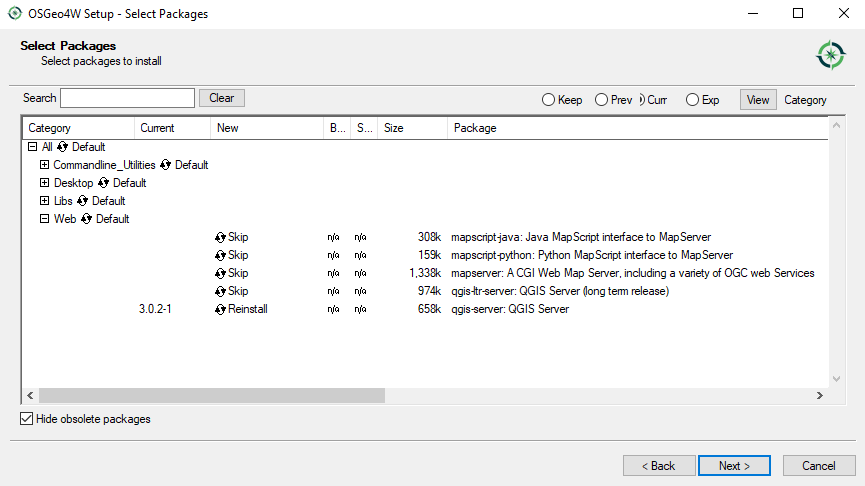
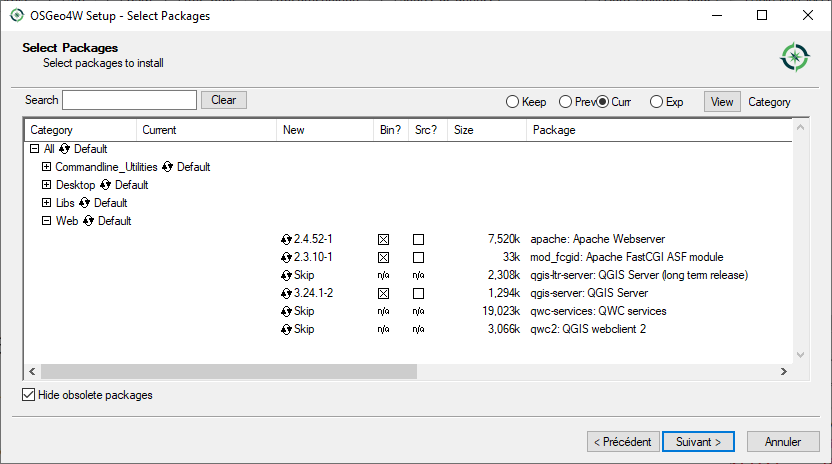
Update instructions to install QGIS Server on windows

diff --git a/docs/server_manual/getting_started.rst b/docs/server_manual/getting_started.rst
@@ -627,99 +627,108 @@ Installation on Windows
 
 .. index:: Windows
 
-QGIS Server can also be installed on Windows systems. While the QGIS Server
-package is available in the 64 bit version of the OSGeo4W network installer
-(https://qgis.org/en/site/forusers/download.html) there is no Apache (or other
-web server) package available, so this must be installed by other means.
+QGIS Server can also be installed on Windows systems using the 64 bit version
+of the OSGeo4W network installer (https://qgis.org/en/site/forusers/download.html).
 
 A simple procedure is the following:
 
-#. Download the XAMPP installer (https://www.apachefriends.org/download.html)
-   for Windows and install Apache
-
-   .. figure:: img/qgis_server_windows1.png
-     :align: center
-
-#. Download the OSGeo4W installer, follow the "Advanced Install" and install
-   both the QGIS Desktop and QGIS Server packages
+#. Download and run the OSGeo4W installer
+#. Follow the "Advanced Install" and install the **QGIS Desktop**, **QGIS Server**
+   **apache** and **mod_fcgid** packages.
 
    .. figure:: img/qgis_server_windows2.png
      :align: center
 
-#. Edit the httpd.conf file (:file:`C:\\xampp\\apache\\conf\\httpd.conf`
-   if the default installation paths have been used) and make the following changes:
+#. Apache is not directly installed as a service on Windows. You need to:
 
-   From:
+   #. Right-click the :file:`OSGeo4W.bat` file at the root of the :file:`C:\\OSGeo4W64\\`
+      folder (if the default installation paths have been used) and select
+      :guilabel:`Run as administrator`
+   #. In the console, run ``apache-install.bat``, which will output
 
-   .. code-block:: apache
+      .. code-block:: bash
 
-    ScriptAlias /cgi-bin/ "C:/xampp/cgi-bin/"
+        > apache-install.bat
+        Installing the 'Apache OSGeo4W Web Server' service
+        The 'Apache OSGeo4W Web Server' service is successfully installed.
+        Testing httpd.conf....
+        Errors reported here must be corrected before the service can be started.
+        ...
 
-
-   To:
-
-   .. code-block:: apache
-
-    ScriptAlias /cgi-bin/ "C:/OSGeo4W64/apps/qgis/bin/"
-
-
-   From:
-
-   .. code-block:: apache
-
-    <Directory "C:/xampp/cgi-bin">
-        AllowOverride None
-        Options None
-        Require all granted
-    </Directory>
+      The service is started as you can notice in the report.
+      But the server may fail to run due to missing custom configuration.
+#. Edit the :file:`C:\\OSGeo4w64\\apps\\apache\\conf\\httpd.conf` file
+   with the following changes:
 
 
-   To:
+   .. list-table::
+      :header-rows: 1
 
-   .. code-block:: apache
+      * - Purpose
+        - Existing config
+        - Replacement
+      * - (Optional) Customize the address to listen to using an IP and/or port,
+          You can and add as many entries as you wish.
 
-    <Directory "C:/OSGeo4W64/apps/qgis/bin">
-        SetHandler cgi-script
-        AllowOverride None
-        Options ExecCGI
-        Order allow,deny
-        Allow from all
-        Require all granted
-    </Directory>
+        - .. code-block:: apache
 
+            Listen ${SRVPORT}
 
-   From:
+        - .. code-block:: apache
 
-   .. code-block:: apache
+            Listen localhost:8080
 
-    AddHandler cgi-script .cgi .pl .asp
+      * - Indicate where to find the script files
+        - .. code-block:: apache
 
+            ScriptAlias /cgi-bin/ "${SRVROOT}/cgi-bin/"
 
-   To:
+        - .. code-block:: apache
 
-   .. code-block:: apache
+            ScriptAlias /cgi-bin/ "C:/OSGeo4W64/apps/qgis/bin/"
 
-    AddHandler cgi-script .cgi .pl .asp .exe
+      * - Provide permissions on the script folder
+        - .. code-block:: apache
 
+            <Directory "${SRVROOT}/cgi-bin">
+                AllowOverride None
+                Options None
+                Require all granted
+            </Directory>
 
-#. Then at the bottom of httpd.conf add:
+        - .. code-block:: apache
 
-   .. code-block:: apache
+            <Directory "C:/OSGeo4W64/apps/qgis/bin">
+                SetHandler cgi-script
+                AllowOverride None
+                Options ExecCGI
+                Require all granted
+            </Directory>
 
-    SetEnv GDAL_DATA "C:\OSGeo4W64\share\gdal"
-    SetEnv QGIS_AUTH_DB_DIR_PATH "C:\OSGeo4W64\apps\qgis\resources"
-    SetEnv PYTHONHOME "C:\OSGeo4W64\apps\Python37"
-    SetEnv PATH "C:\OSGeo4W64\bin;C:\OSGeo4W64\apps\qgis\bin;C:\OSGeo4W64\apps\Qt5\bin;C:\WINDOWS\system32;C:\WINDOWS;C:\WINDOWS\System32\Wbem"
-    SetEnv QGIS_PREFIX_PATH "C:\OSGeo4W64\apps\qgis"
-    SetEnv QT_PLUGIN_PATH "C:\OSGeo4W64\apps\qgis\qtplugins;C:\OSGeo4W64\apps\Qt5\plugins"
+      * - Enable file extensions to use for script files. Uncomment and complete
+        - .. code-block:: apache
 
+            #AddHandler cgi-script .cgi
 
-#. Restart the Apache web server from the XAMPP Control Panel and open browser window to testing
-   a GetCapabilities request to QGIS Server
+        - .. code-block:: apache
+
+            AddHandler cgi-script .cgi .exe
+
+#. Restart the Apache web server
 
    ::
 
-    http://qgis.demo/cgi-bin/qgis_mapserv.fcgi.exe?SERVICE=WMS&VERSION=1.3.0&REQUEST=GetCapabilities
+     > apache-restart.bat
+
+#. Open browser window to testing a GetCapabilities request to QGIS Server.
+   Replace ``localhost:8080`` with the IP and port you set to listen.
+
+   ::
+
+    http://localhost:8080/cgi-bin/qgis_mapserv.fcgi.exe?SERVICE=WMS&VERSION=1.3.0&REQUEST=GetCapabilities
+
+   A :file:`XML` file with the capabilities should be returned.
+   Your server is ready to use.
 
 
 Serve a project
